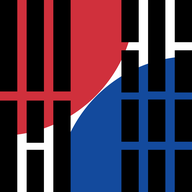
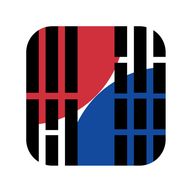
feat: 세계사 비교와 날짜 기록 강조, 앱 아이콘과 스토어 배지 정리
- 한국사와 세계사 비교 항목과 날짜 기록 항목 추가
- 참고 자료에서 나무위키 제거
- 스토어 배지 높이를 맞추고 좁은 화면에서 가운데 정렬
- 머리글에 현재 앱 아이콘 적용

diff --git a/index.html b/index.html
@@ -4,13 +4,13 @@
 <meta charset="utf-8">
 <meta name="viewport" content="width=device-width, initial-scale=1">
 <title>한국역사연표</title>
-<meta name="description" content="46억 년의 역사부터 우리 가족의 기록까지. 한국사와 세계사를 시간순으로 펼쳐 보는 앱, 한국역사연표를 소개합니다.">
+<meta name="description" content="한국사와 세계사를 한 줄에 놓고 비교해 보는 역사 연표 앱. 중요한 사건은 날짜까지 기록했고, 우리 가족의 기록도 이어 적을 수 있습니다.">
 <link rel="canonical" href="https://koreahistory.mcnorton.com/">
 <meta property="og:type" content="website">
 <meta property="og:locale" content="ko_KR">
 <meta property="og:site_name" content="한국역사연표">
 <meta property="og:title" content="한국역사연표">
-<meta property="og:description" content="46억 년의 역사부터 우리 가족의 기록까지. 한국사와 세계사를 시간순으로 펼쳐 보는 앱, 한국역사연표를 소개합니다.">
+<meta property="og:description" content="한국사와 세계사를 한 줄에 놓고 비교해 보는 역사 연표 앱. 중요한 사건은 날짜까지 기록했고, 우리 가족의 기록도 이어 적을 수 있습니다.">
 <meta property="og:url" content="https://koreahistory.mcnorton.com/">
 <meta property="og:image" content="https://koreahistory.mcnorton.com/assets/img/og.jpg">
 <meta name="twitter:card" content="summary_large_image">
@@ -25,17 +25,17 @@
 <body>
 <a class="skip" href="#main">본문으로 건너뛰기</a>
 <header class="top">
-  <a class="brand" href="/"><span class="brand-seal" aria-hidden="true">연<br>표</span>한국역사연표</a>
+  <a class="brand" href="/"><img class="brand-icon" src="/assets/img/app-icon.png" alt="" width="36" height="36">한국역사연표</a>
   <nav aria-label="주 메뉴"><a href="/wiki/">사용설명서</a><a href="/history/">버전 이력</a><a href="/helpdesk/">의견 보내기</a><a href="/#install">앱 받기</a></nav>
 </header>
 <main id="main">
 <section class="hero">
   <div>
     <h1><span>46억 년의 역사,</span> <span>그 끝에</span> <span>우리 가족의 이야기</span></h1>
-    <p class="lede">한국사와 세계사를 시간순으로 펼쳐 보고, 그 끝에 우리 가족의 기록을 이어 적는 앱입니다.</p>
+    <p class="lede">한국사와 세계사를 한 줄에 놓고 비교해 보는 역사 연표 앱입니다. 그 끝에 우리 가족의 기록도 이어 적을 수 있습니다.</p>
     <div class="stores">
-      <a href="https://apps.apple.com/kr/app/%ED%95%9C%EA%B5%AD%EC%97%AD%EC%82%AC%EC%97%B0%ED%91%9C/id6749217619" aria-label="App Store에서 한국역사연표 받기"><img src="/assets/img/badge-appstore.svg" alt="App Store에서 다운로드" width="187" height="62"></a>
-      <a class="play" href="https://play.google.com/store/apps/details?id=com.mcnorton.korea_history" aria-label="Google Play에서 한국역사연표 받기"><img src="/assets/img/badge-play.png" alt="Google Play에서 다운로드" width="160" height="62"></a>
+      <a href="https://apps.apple.com/kr/app/%ED%95%9C%EA%B5%AD%EC%97%AD%EC%82%AC%EC%97%B0%ED%91%9C/id6749217619" aria-label="App Store에서 한국역사연표 받기"><img src="/assets/img/badge-appstore.svg" alt="App Store에서 다운로드" width="201" height="62"></a>
+      <a class="play" href="https://play.google.com/store/apps/details?id=com.mcnorton.korea_history" aria-label="Google Play에서 한국역사연표 받기"><img src="/assets/img/badge-play.png" alt="Google Play에서 다운로드" width="209" height="62"></a>
     </div>
     <p class="small">회원가입이나 결제 없이 바로 쓸 수 있고, 인터넷이 없어도 연표를 볼 수 있습니다.</p>
   </div>
@@ -63,7 +63,7 @@
       <h2>자료를 모아 시간순으로 놓았습니다</h2>
       <p class="prose">흩어져 있는 기록을 모아 연도와 날짜 순서로 한 줄에 정리했습니다. 이런 자료를 참고했습니다.</p>
       <ul class="sources">
-        <li>한국사총설DB</li><li>국사편찬위원회</li><li>위키피디아</li><li>나무위키</li><li>두산백과</li><li>신문과 뉴스</li>
+        <li>한국사총설DB</li><li>국사편찬위원회</li><li>위키피디아</li><li>두산백과</li><li>신문과 뉴스</li>
       </ul>
     </div>
   </article>
@@ -72,24 +72,59 @@
     <div class="mark">46억 년</div>
     <div class="entry-body">
       <h2>지구의 시작부터 오늘까지, 한 줄로</h2>
+      <p class="prose">31개 시대에 사건 827건이 들어 있습니다. 한국사가 464건, 세계사가 363건입니다. <span class="small">(1.2.4 기준)</span></p>
+      <ol class="years">
+        <li><span class="y">46억 년 전</span><span>캄브리아기 이전, 지구의 시간</span></li>
+        <li><span class="y">기원전 70만 년</span><span>한반도 구석기문명</span></li>
+        <li><span class="y">기원전 2333년</span><span>고조선</span></li>
+        <li><span class="y">918년</span><span>고려</span></li>
+        <li><span class="y">1392년</span><span>조선</span></li>
+        <li><span class="y">1443년</span><span>훈민정음 창제</span></li>
+        <li><span class="y">1919년</span><span>3.1독립운동</span></li>
+        <li><span class="y">1945년</span><span>광복</span></li>
+      </ol>
+    </div>
+  </article>
+
+  <article class="entry">
+    <div class="mark">세계사</div>
+    <div class="entry-body">
+      <h2>한국사와 세계사를 나란히 비교합니다</h2>
       <div class="span-grid">
         <div>
-          <p class="prose">31개 시대에 사건 827건이 들어 있습니다. 한국사가 464건, 세계사가 363건입니다. <span class="small">(1.2.4 기준)</span></p>
-          <ol class="years">
-            <li><span class="y">46억 년 전</span><span>캄브리아기 이전, 지구의 시간</span></li>
-            <li><span class="y">기원전 70만 년</span><span>한반도 구석기문명</span></li>
-            <li><span class="y">기원전 2333년</span><span>고조선</span></li>
-            <li><span class="y">918년</span><span>고려</span></li>
-            <li><span class="y">1392년</span><span>조선</span></li>
-            <li><span class="y">1443년</span><span>훈민정음 창제</span></li>
-            <li class="world"><span class="y">1453년</span><span>오스만제국의 콘스탄티노폴리스 함락 <span class="tag">세계사</span></span></li>
-            <li><span class="y">1919년</span><span>3.1독립운동</span></li>
-            <li><span class="y">1945년</span><span>광복</span></li>
-          </ol>
-          <p class="prose pair">지구본 버튼을 켜면 세계사가 함께 나옵니다. 훈민정음이 만들어지고 10년 뒤 유럽에서 어떤 일이 있었는지, 같은 줄에서 바로 보입니다.</p>
+          <div class="prose">
+            <p>지구본 버튼을 켜면 세계사 사건 363건이 한국사 사이에 시간순으로 들어옵니다. 우리나라에서 그 일이 일어날 때 세계에서는 무슨 일이 있었는지 한 화면에서 비교할 수 있습니다.</p>
+          </div>
+          <table class="compare">
+            <caption>같은 해의 한국사와 세계사</caption>
+            <thead><tr><th scope="col">연도</th><th scope="col">한국사</th><th scope="col">세계사</th></tr></thead>
+            <tbody>
+              <tr><th scope="row">1894년</th><td>동학농민혁명 발발</td><td class="world" data-label="세계사">청일전쟁</td></tr>
+              <tr><th scope="row">1905년</th><td>을사늑약 강제 체결</td><td class="world" data-label="세계사">아인슈타인의 특수상대성이론 논문 출판</td></tr>
+              <tr><th scope="row">1919년</th><td>3.1독립운동</td><td class="world" data-label="세계사">파리 강화 회의와 베르사유 조약</td></tr>
+              <tr><th scope="row">1945년</th><td>광복</td><td class="world" data-label="세계사">제2차 세계대전 종식</td></tr>
+            </tbody>
+          </table>
+          <p class="prose pair">시기가 조금 떨어진 사건도 한 줄에서 이어 볼 수 있습니다. 1443년에 훈민정음이 만들어지고 10년 뒤인 1453년, 오스만제국이 콘스탄티노폴리스를 함락합니다.</p>
         </div>
         <figure class="device"><img src="/assets/img/shot-timeline.webp" alt="조선 시대 연표에 훈민정음 창제와 세계사 사건이 함께 나오는 화면" width="660" height="1346" loading="lazy"></figure>
       </div>
+    </div>
+  </article>
+
+  <article class="entry">
+    <div class="mark">날짜</div>
+    <div class="entry-body">
+      <h2>중요한 사건은 날짜까지 기록했습니다</h2>
+      <p class="prose">사건 464건에는 연도뿐 아니라 월과 일까지 적혀 있습니다. 같은 해 안에서도 어떤 일이 먼저 일어났는지 순서를 따라갈 수 있습니다. 1945년을 날짜로 따라가 보세요.</p>
+      <ol class="years years--dated">
+        <li class="world"><span class="y">1945년 8월 6일</span><span>히로시마 원자폭탄 투하 <span class="tag">세계사</span></span></li>
+        <li><span class="y">1945년 8월 15일</span><span>대한민국의 광복</span></li>
+        <li class="world"><span class="y">1945년 9월 2일</span><span>일본의 항복과 제2차 세계대전 종식 <span class="tag">세계사</span></span></li>
+        <li><span class="y">1945년 10월 9일</span><span>조선어학회 주관 한글날 기념식</span></li>
+        <li class="world"><span class="y">1945년 10월 24일</span><span>국제연합(UN) 창설 <span class="tag">세계사</span></span></li>
+      </ol>
+      <p class="prose pair">날짜가 있어서 앱을 열면 오늘 날짜에 일어난 사건도 바로 볼 수 있습니다.</p>
     </div>
   </article>
 
@@ -153,8 +188,8 @@
     <h2>오늘부터 우리 집 연표를 시작해 보세요</h2>
     <p class="prose">앱스토어와 플레이스토어에서 “한국역사연표”를 검색하거나 아래 버튼을 누르세요.</p>
     <div class="stores">
-      <a href="https://apps.apple.com/kr/app/%ED%95%9C%EA%B5%AD%EC%97%AD%EC%82%AC%EC%97%B0%ED%91%9C/id6749217619" aria-label="App Store에서 한국역사연표 받기"><img src="/assets/img/badge-appstore.svg" alt="App Store에서 다운로드" width="216" height="72"></a>
-      <a class="play" href="https://play.google.com/store/apps/details?id=com.mcnorton.korea_history" aria-label="Google Play에서 한국역사연표 받기"><img src="/assets/img/badge-play.png" alt="Google Play에서 다운로드" width="186" height="72"></a>
+      <a href="https://apps.apple.com/kr/app/%ED%95%9C%EA%B5%AD%EC%97%AD%EC%82%AC%EC%97%B0%ED%91%9C/id6749217619" aria-label="App Store에서 한국역사연표 받기"><img src="/assets/img/badge-appstore.svg" alt="App Store에서 다운로드" width="233" height="72"></a>
+      <a class="play" href="https://play.google.com/store/apps/details?id=com.mcnorton.korea_history" aria-label="Google Play에서 한국역사연표 받기"><img src="/assets/img/badge-play.png" alt="Google Play에서 다운로드" width="242" height="72"></a>
     </div>
     <p class="small">무료로 받을 수 있습니다. 앱 하단에 광고 배너가 표시되며, 이 광고로 앱을 운영합니다.</p>
   </div>

diff --git a/assets/css/site.css b/assets/css/site.css
@@ -40,10 +40,7 @@ p { margin: 0 0 1em; }
   max-width: 1240px; margin: 0 auto; padding: 18px var(--gutter);
 }
 .brand { display: inline-flex; align-items: center; gap: 12px; font: 400 1.25rem/1 var(--display); color: var(--jjok); text-decoration: none; }
-.brand-seal {
-  display: grid; place-items: center; width: 34px; height: 34px; background: var(--seal); color: #f7efe0;
-  font: 400 .8125rem/1.02 var(--display); text-align: center; border-radius: 3px; flex: none;
-}
+.brand-icon { width: 36px; height: 36px; border-radius: 8px; flex: none; }
 .top nav { display: flex; flex-wrap: wrap; gap: 2px 18px; font-size: .9375rem; }
 .top nav a { color: var(--ink); text-decoration: none; padding: 4px 0; }
 .top nav a:hover, .top nav a[aria-current] { color: var(--seal); text-decoration: underline; }
@@ -60,7 +57,6 @@ p { margin: 0 0 1em; }
 .stores a { display: block; border-radius: 10px; transition: transform .15s ease; }
 .stores a:hover { transform: translateY(-2px); }
 .stores img { height: 62px; width: auto; }
-.stores .play img { height: 62px; }
 .small { font-size: .9375rem; color: var(--ink-soft); }
 .hero .small { margin: 18px 0 0; max-width: 34em; }
 .hero-art { justify-self: center; display: flex; align-items: flex-start; gap: clamp(14px, 3vw, 34px); }
@@ -104,13 +100,24 @@ p { margin: 0 0 1em; }
 
 /* 연도 줄 */
 .span-grid { display: grid; grid-template-columns: minmax(0, 1fr); gap: 36px; align-items: start; }
-.years { list-style: none; margin: 8px 0 0; padding: 0; }
+.years { list-style: none; margin: 8px 0 0; padding: 0; max-width: 40em; }
 .years li { display: grid; grid-template-columns: 7.2em minmax(0, 1fr); gap: 12px; padding: 11px 0; border-bottom: 1px solid var(--rule); align-items: baseline; }
 .years time, .years .y { font: 400 1.0625rem/1.35 var(--display); color: var(--jjok); }
 .years .world { color: var(--jade); }
 .years .world .y { color: var(--jade); }
 .tag { font-size: .8125rem; border: 1px solid currentColor; border-radius: 3px; padding: 0 5px; margin-left: 6px; white-space: nowrap; }
 .pair { margin-top: 26px; }
+.years--dated { max-width: 44em; }
+.years--dated li { grid-template-columns: 10em minmax(0, 1fr); }
+
+/* 한국사와 세계사 비교 */
+.compare { width: 100%; border-collapse: collapse; margin-top: 22px; }
+.compare caption { text-align: left; font-size: .9375rem; color: var(--ink-soft); padding-bottom: 8px; }
+.compare th, .compare td { text-align: left; font-weight: 400; vertical-align: baseline; padding: 11px 14px 11px 0; border-bottom: 1px solid var(--rule); }
+.compare thead th { font-size: .9375rem; color: var(--jjok); border-bottom: 2px solid var(--jjok); padding-block: 4px 8px; }
+.compare thead th:last-child { color: var(--jade); }
+.compare tbody th { font: 400 1.0625rem/1.35 var(--display); color: var(--jjok); white-space: nowrap; }
+.compare td.world { color: var(--jade); }
 
 /* 기능 */
 .feature { display: grid; grid-template-columns: minmax(0, 1fr); gap: 26px; padding: 26px 0; border-top: 1px solid var(--rule); align-items: start; }
@@ -174,12 +181,20 @@ p { margin: 0 0 1em; }
   .home-grid { grid-template-columns: minmax(0, 1fr) 280px; gap: 52px; }
   .home-grid .device { width: 280px; }
 }
+@media (max-width: 899px) {
+  .stores { justify-content: center; }
+}
 @media (max-width: 560px) {
   :root { --axis: 58px; }
   .slip { display: none; }
-  .stores img, .stores .play img { height: 54px; }
-  .install .stores img { height: 58px; }
-  .years li { grid-template-columns: minmax(0, 1fr); gap: 0; }
+  .stores img, .install .stores img { height: 50px; }
+  .stores { gap: 10px 12px; }
+  .years li, .years--dated li { grid-template-columns: minmax(0, 1fr); gap: 0; }
+  .compare thead { position: absolute; width: 1px; height: 1px; overflow: hidden; clip-path: inset(50%); }
+  .compare, .compare caption, .compare tbody, .compare tr, .compare th, .compare td { display: block; }
+  .compare tr { padding: 11px 0; border-bottom: 1px solid var(--rule); }
+  .compare th, .compare td { border: 0; padding: 0; }
+  .compare td.world::before { content: attr(data-label) " "; font-size: .8125rem; border: 1px solid currentColor; border-radius: 3px; padding: 0 5px; margin-right: 6px; }
   .mark { font-size: .875rem; padding-right: 12px; padding-top: .45em; }
   .mark::after { top: .55em; }
   .entry--home .mark { font-size: 1rem; }

diff --git a/helpdesk/index.html b/helpdesk/index.html
@@ -25,7 +25,7 @@
 <body>
 <a class="skip" href="#main">본문으로 건너뛰기</a>
 <header class="top">
-  <a class="brand" href="/"><span class="brand-seal" aria-hidden="true">연<br>표</span>한국역사연표</a>
+  <a class="brand" href="/"><img class="brand-icon" src="/assets/img/app-icon.png" alt="" width="36" height="36">한국역사연표</a>
   <nav aria-label="주 메뉴"><a href="/wiki/">사용설명서</a><a href="/history/">버전 이력</a><a href="/helpdesk/" aria-current="page">의견 보내기</a><a href="/#install">앱 받기</a></nav>
 </header>
 <main id="main">

diff --git a/history/index.html b/history/index.html
@@ -25,7 +25,7 @@
 <body>
 <a class="skip" href="#main">본문으로 건너뛰기</a>
 <header class="top">
-  <a class="brand" href="/"><span class="brand-seal" aria-hidden="true">연<br>표</span>한국역사연표</a>
+  <a class="brand" href="/"><img class="brand-icon" src="/assets/img/app-icon.png" alt="" width="36" height="36">한국역사연표</a>
   <nav aria-label="주 메뉴"><a href="/wiki/">사용설명서</a><a href="/history/" aria-current="page">버전 이력</a><a href="/helpdesk/">의견 보내기</a><a href="/#install">앱 받기</a></nav>
 </header>
 <main id="main">

diff --git a/wiki/index.html b/wiki/index.html
@@ -25,7 +25,7 @@
 <body>
 <a class="skip" href="#main">본문으로 건너뛰기</a>
 <header class="top">
-  <a class="brand" href="/"><span class="brand-seal" aria-hidden="true">연<br>표</span>한국역사연표</a>
+  <a class="brand" href="/"><img class="brand-icon" src="/assets/img/app-icon.png" alt="" width="36" height="36">한국역사연표</a>
   <nav aria-label="주 메뉴"><a href="/wiki/" aria-current="page">사용설명서</a><a href="/history/">버전 이력</a><a href="/helpdesk/">의견 보내기</a><a href="/#install">앱 받기</a></nav>
 </header>
 <main id="main">

diff --git a/404.html b/404.html
@@ -24,7 +24,7 @@
 <body>
 <a class="skip" href="#main">본문으로 건너뛰기</a>
 <header class="top">
-  <a class="brand" href="/"><span class="brand-seal" aria-hidden="true">연<br>표</span>한국역사연표</a>
+  <a class="brand" href="/"><img class="brand-icon" src="/assets/img/app-icon.png" alt="" width="36" height="36">한국역사연표</a>
   <nav aria-label="주 메뉴"><a href="/wiki/">사용설명서</a><a href="/history/">버전 이력</a><a href="/helpdesk/">의견 보내기</a><a href="/#install">앱 받기</a></nav>
 </header>
 <main id="main">

diff --git a/privacy/index.html b/privacy/index.html
@@ -25,7 +25,7 @@
 <body>
 <a class="skip" href="#main">본문으로 건너뛰기</a>
 <header class="top">
-  <a class="brand" href="/"><span class="brand-seal" aria-hidden="true">연<br>표</span>한국역사연표</a>
+  <a class="brand" href="/"><img class="brand-icon" src="/assets/img/app-icon.png" alt="" width="36" height="36">한국역사연표</a>
   <nav aria-label="주 메뉴"><a href="/wiki/">사용설명서</a><a href="/history/">버전 이력</a><a href="/helpdesk/">의견 보내기</a><a href="/#install">앱 받기</a></nav>
 </header>
 <main id="main">
